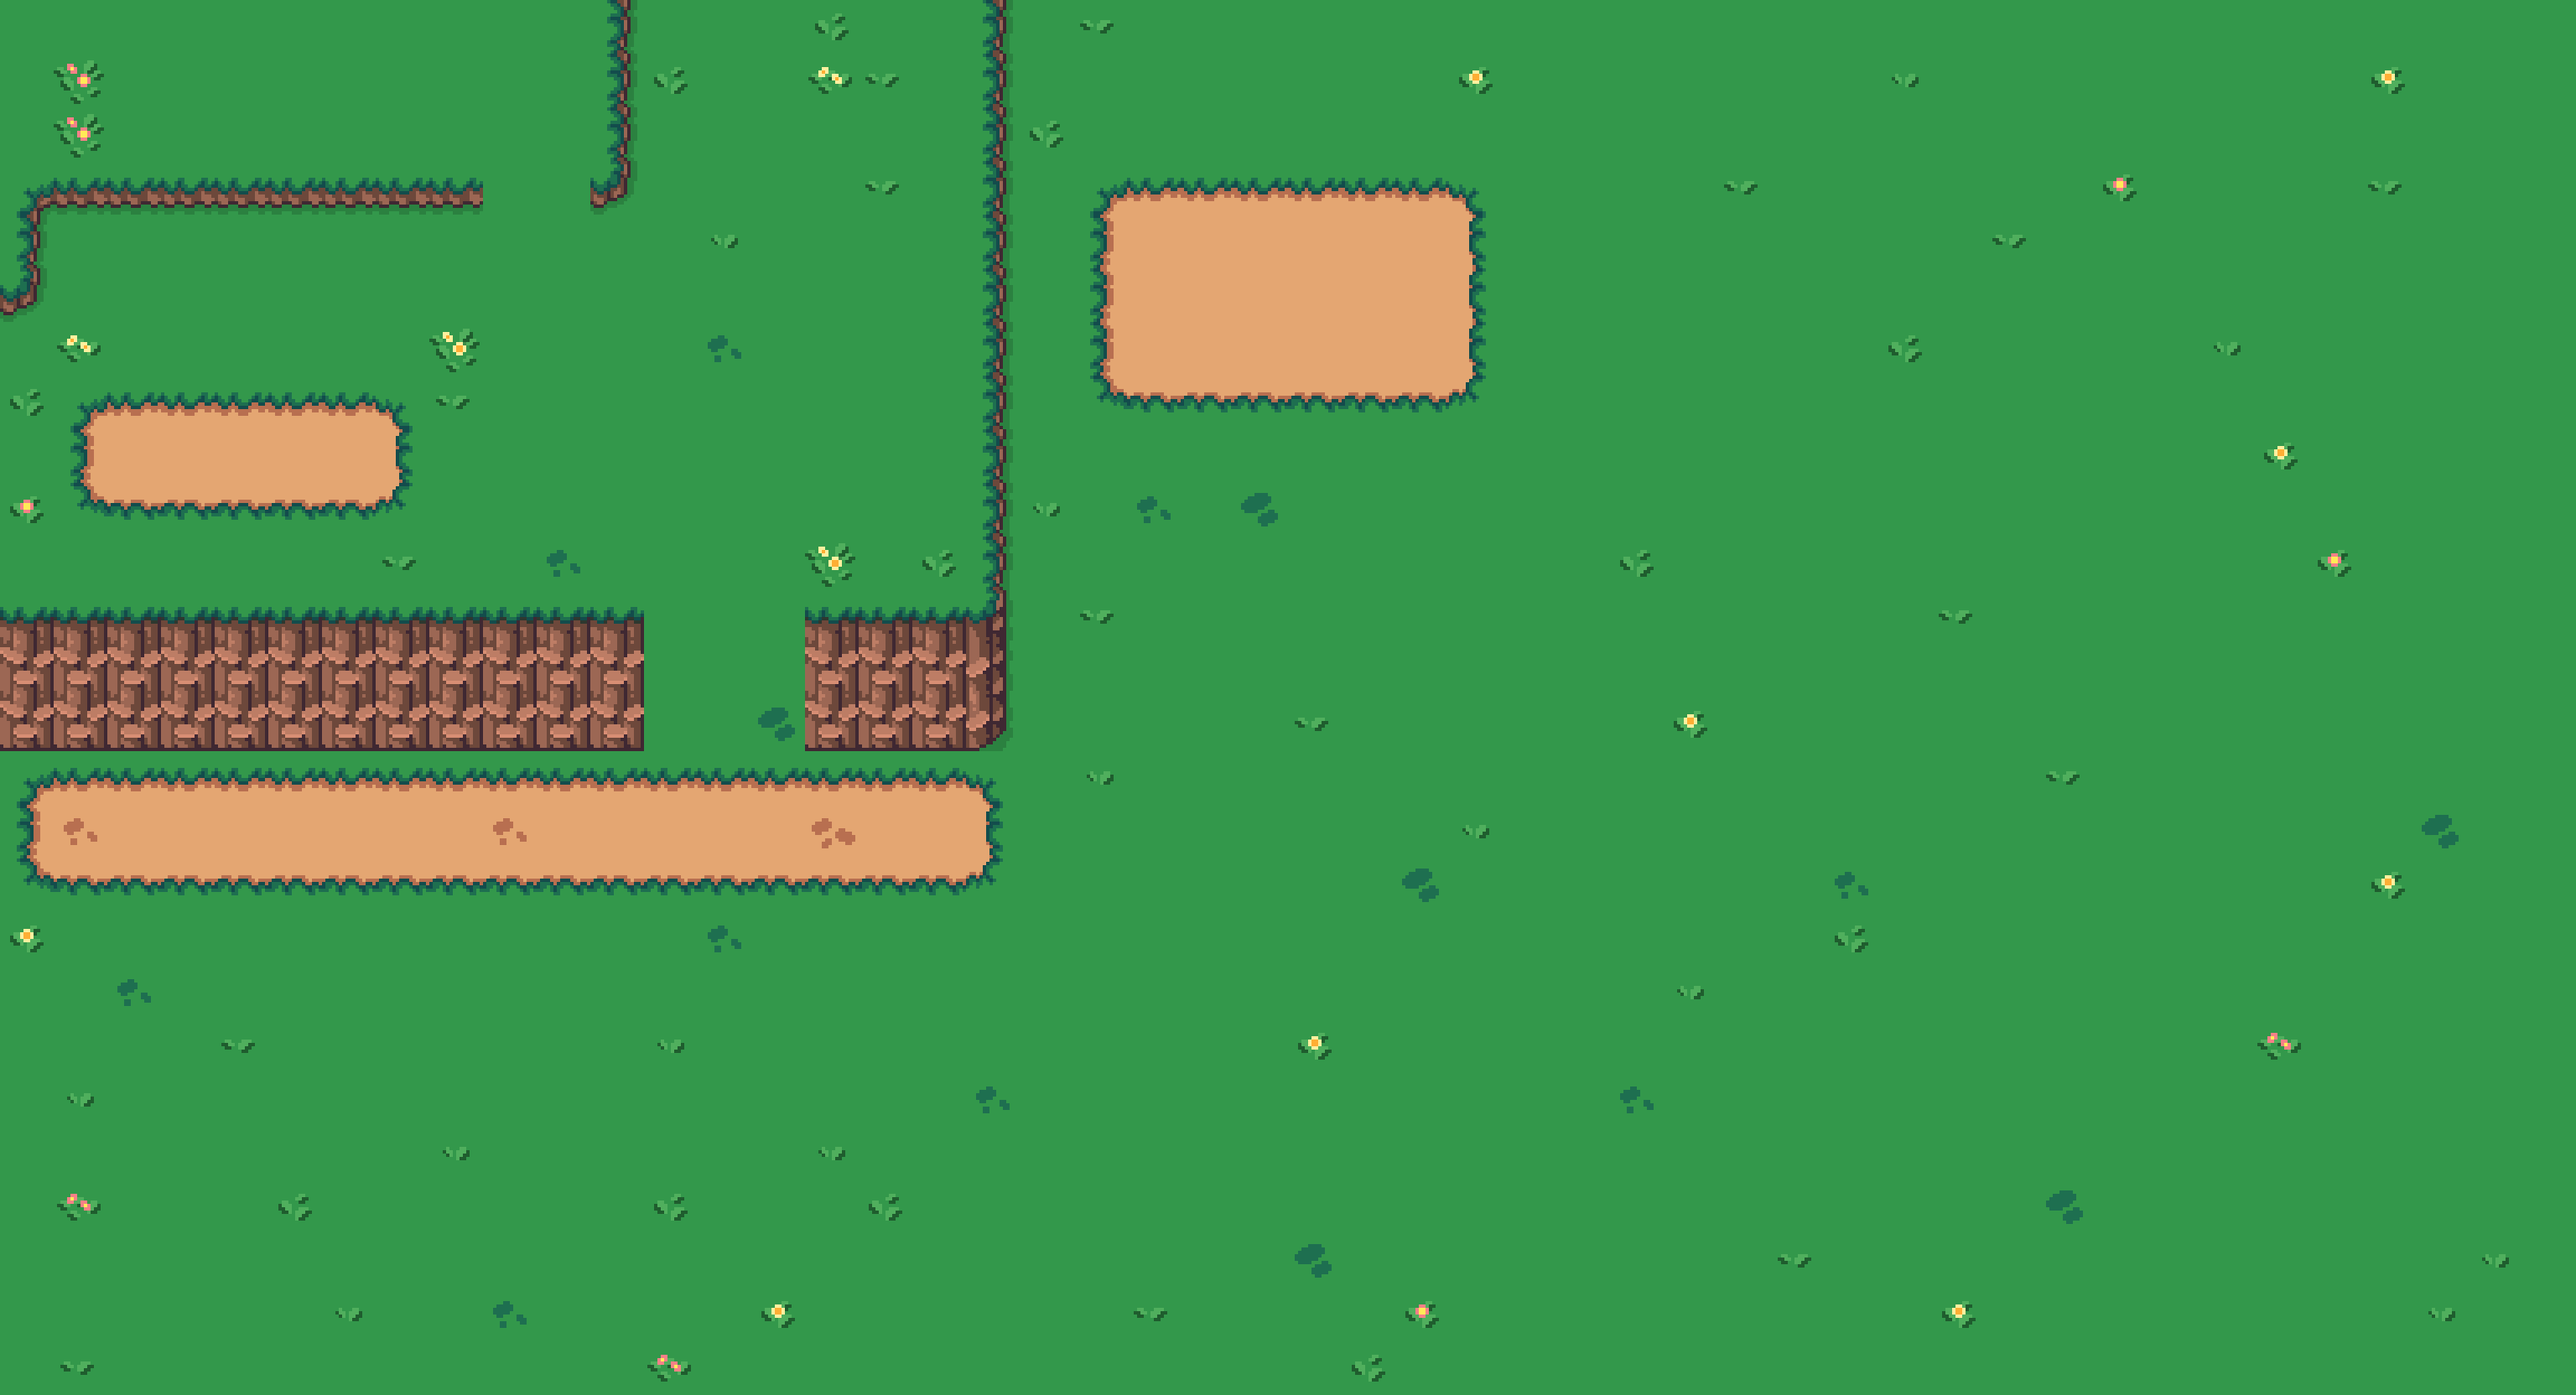
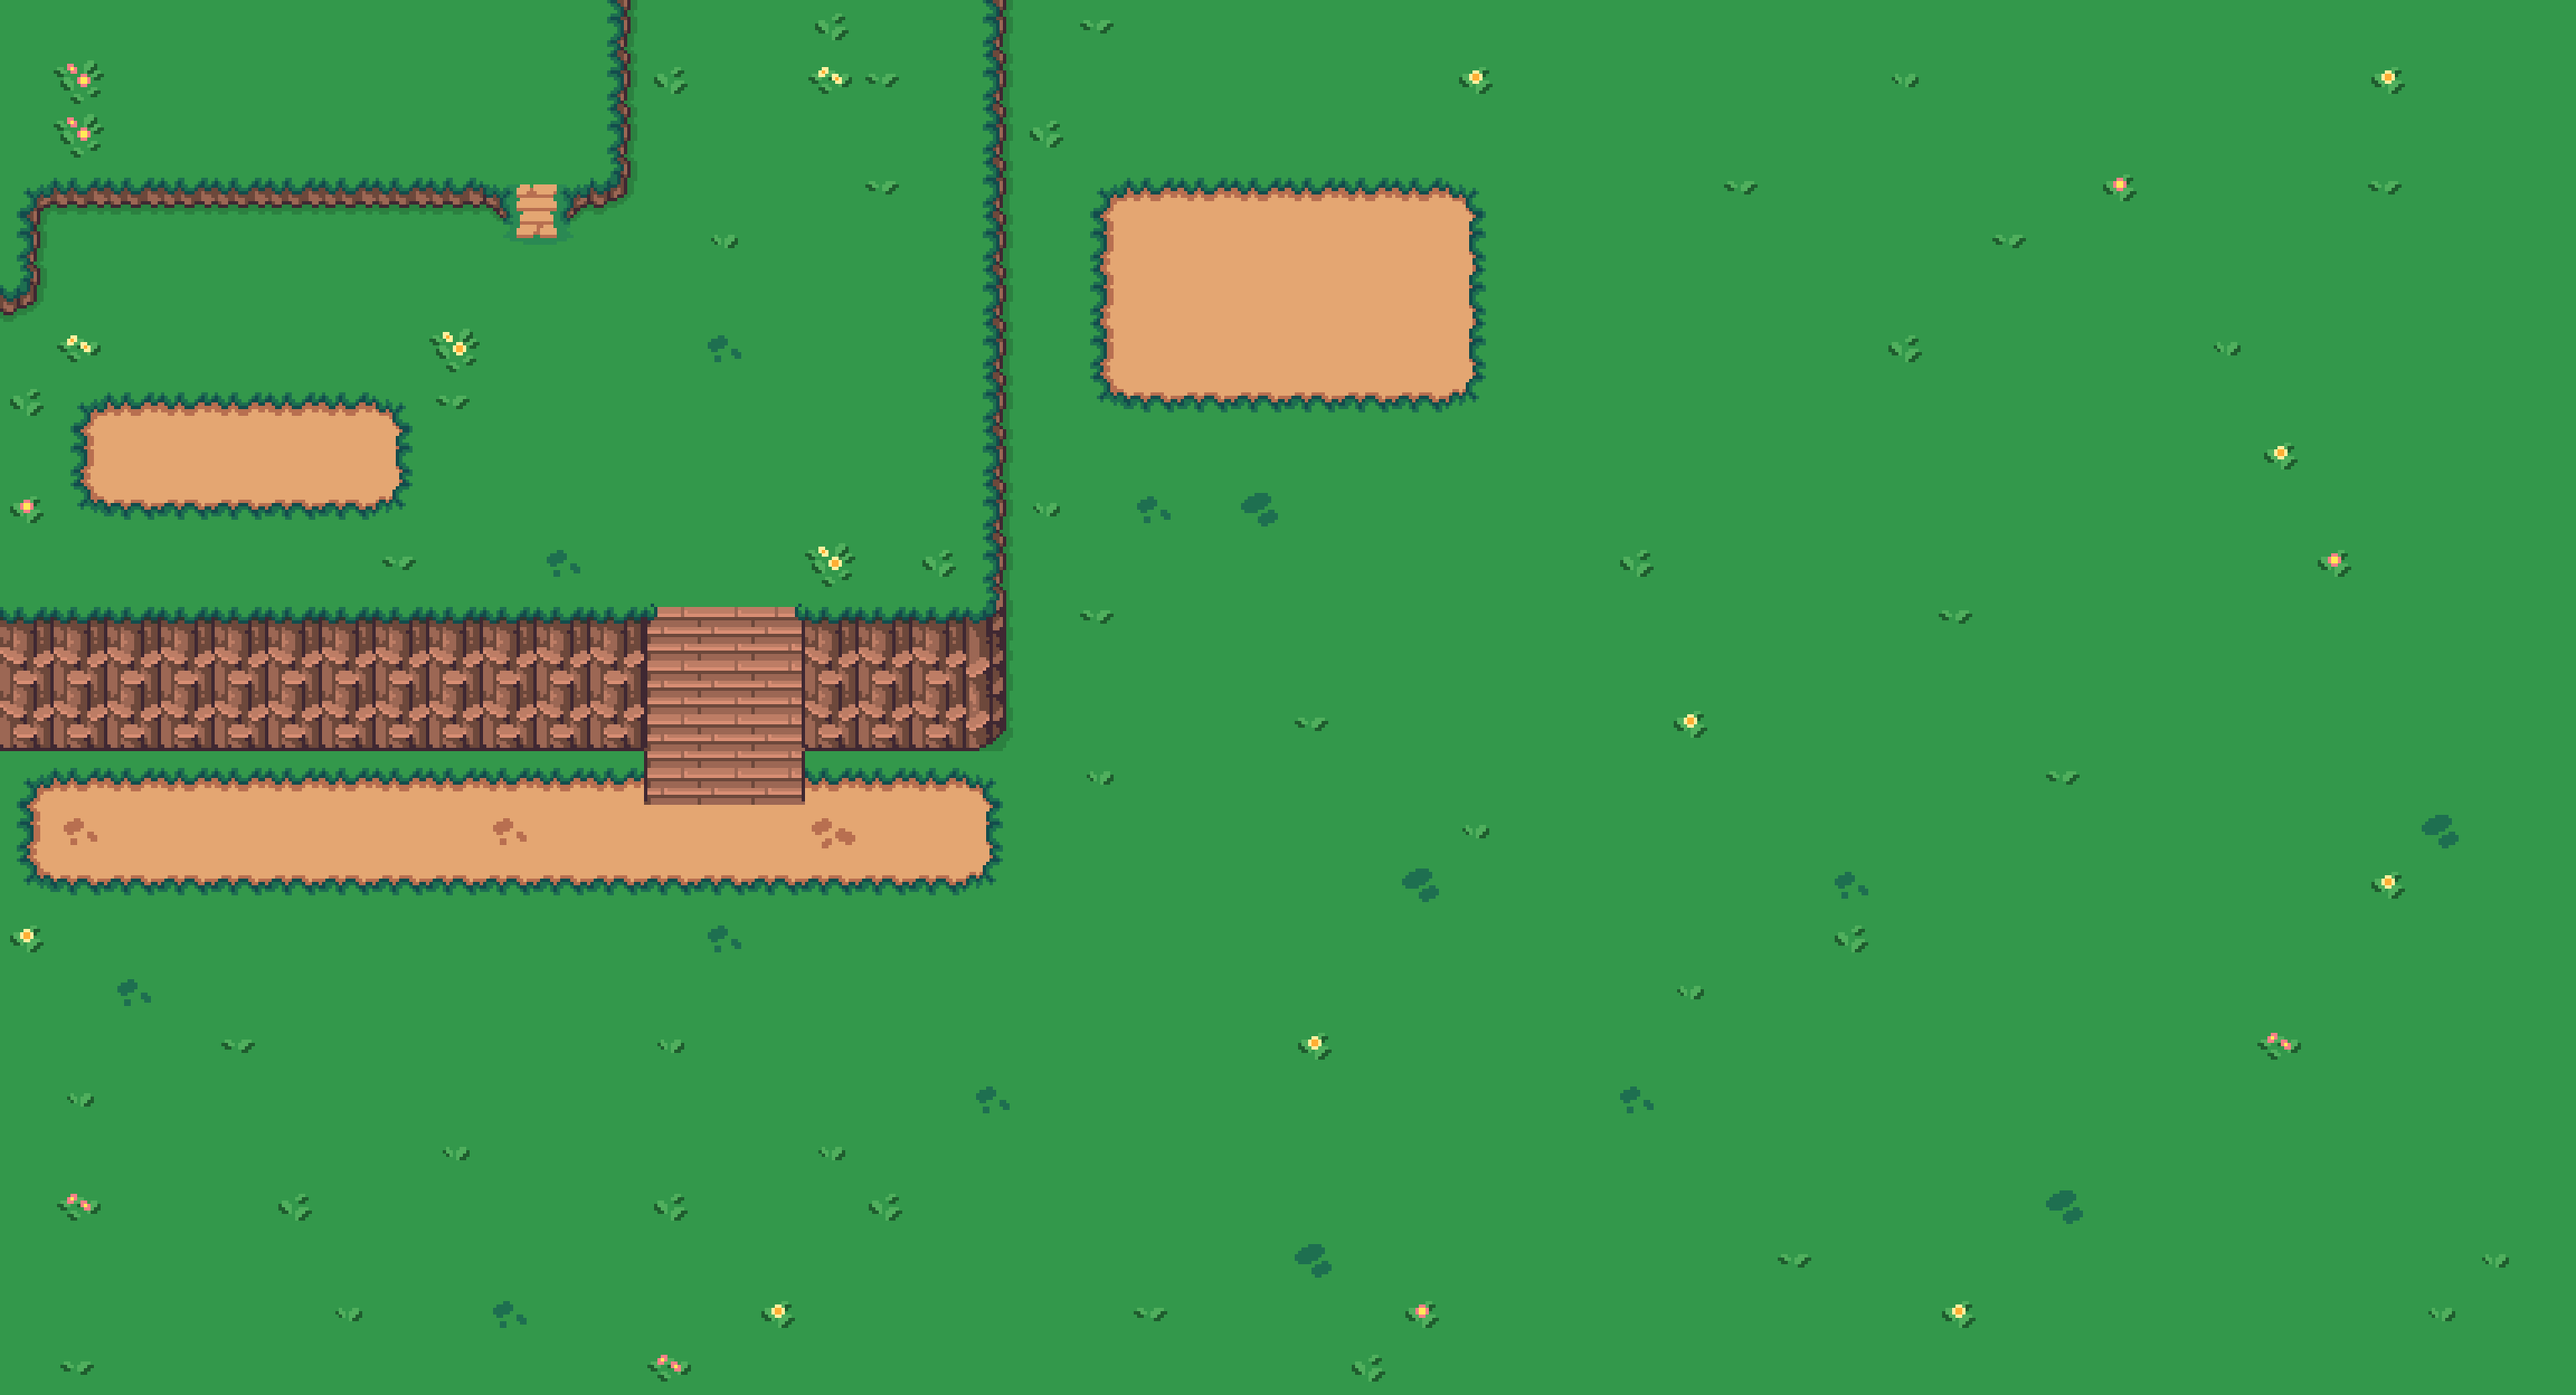
Upper Layer and Cliff Stairs are part of background layer, only their colliders are being added as gameobjects.

Changed region(s): [[0.25, 0.4375, 0.3125, 0.5938], [0.1875, 0.125, 0.25, 0.1875]]

diff --git a/src/base.c b/src/base.c
@@ -319,7 +319,7 @@ static void xLoadCliffColliders(World *world)
     }
 }
 
-static void xLoadCliffStairs(World *world)
+static void xLoadCliffStairsColliders(World *world)
 {
     for (int i = 0; i < cliffStairsCount; i++)
     {
@@ -330,7 +330,7 @@ static void xLoadCliffStairs(World *world)
             SRC_CLIFF_STAIRS_WOOD.width,
             SRC_CLIFF_STAIRS_WOOD.height
         };
-        xAddCliffStairs(world, temp);
+        xAddCliffStairsCollider(world, temp);
     }
 }
 
@@ -357,7 +357,7 @@ void xLoadBaseMap(World *world, AnimalManager *manager)
     xLoadAnimals(manager);
     xLoadFarmlands(world);
     xLoadCliffColliders(world);
-    xLoadCliffStairs(world);
+    xLoadCliffStairsColliders(world);
     // xLoadWildflowers(world);
     xLoadHedges(world);
     xLoadStairs(world);

diff --git a/src/entities.c b/src/entities.c
@@ -710,12 +710,12 @@ void xAddHedge(World *world, HedgePiece piece, xRectangle dest)
 //     xCreateEntity(world, id, source, dest, collider);
 // }
 
-void xAddCliffStairs(World *world, xRectangle dest)
+void xAddCliffStairsCollider(World *world, xRectangle dest)
 {
     EntityInfo info =
     {
-        .source = SRC_CLIFF_STAIRS_WOOD,
-        .spritesheet = &world->spritesheets[SHEET_NATURE_GRASSLANDS],
+        .source = {0},
+        .spritesheet = &(Texture2D){0},
         .id = ENTITY_EMPTY_OBJECT,
         .active = true,
         .collidable = false,

diff --git a/include/entities.h b/include/entities.h
@@ -28,7 +28,7 @@ void xAddWildflowers(World *world, WildflowerVariant variant, xRectangle dest);
 
 void xAddFlower(World *world, FlowerColor color, FlowerType type, xRectangle dest);
 
-void xAddCliffStairs(World *world, xRectangle dest);
+void xAddCliffStairsCollider(World *world, xRectangle dest);
 
 void xAddCliffCollider(World *world, int index, xRectangle dest);
 

diff --git a/src/sprites_nature.c b/src/sprites_nature.c
@@ -36,7 +36,7 @@ const xRectangle SRC_FARMLAND_WET[] =
 
 /* --------------- TERRAIN DECOR SPRITES --------------- */
 
-/// Contains 3 static grass variants.
+// Contains 3 static grass variants.
 const xRectangle SRC_GRASS[] =
 {
     { 64 * 3, 64 * 0, 64, 64 },     // Grass Variant 1

diff --git a/src/player.c b/src/player.c
@@ -313,7 +313,6 @@ static void xMovePlayer(Player *player, World *world, float dt)
     }
 
     player->gameObject.depth = player->gameObject.collider.y + player->gameObject.collider.height;
-
 }
 
 // static bool xOutsideScreen(Player *player, xRectangle collider)
